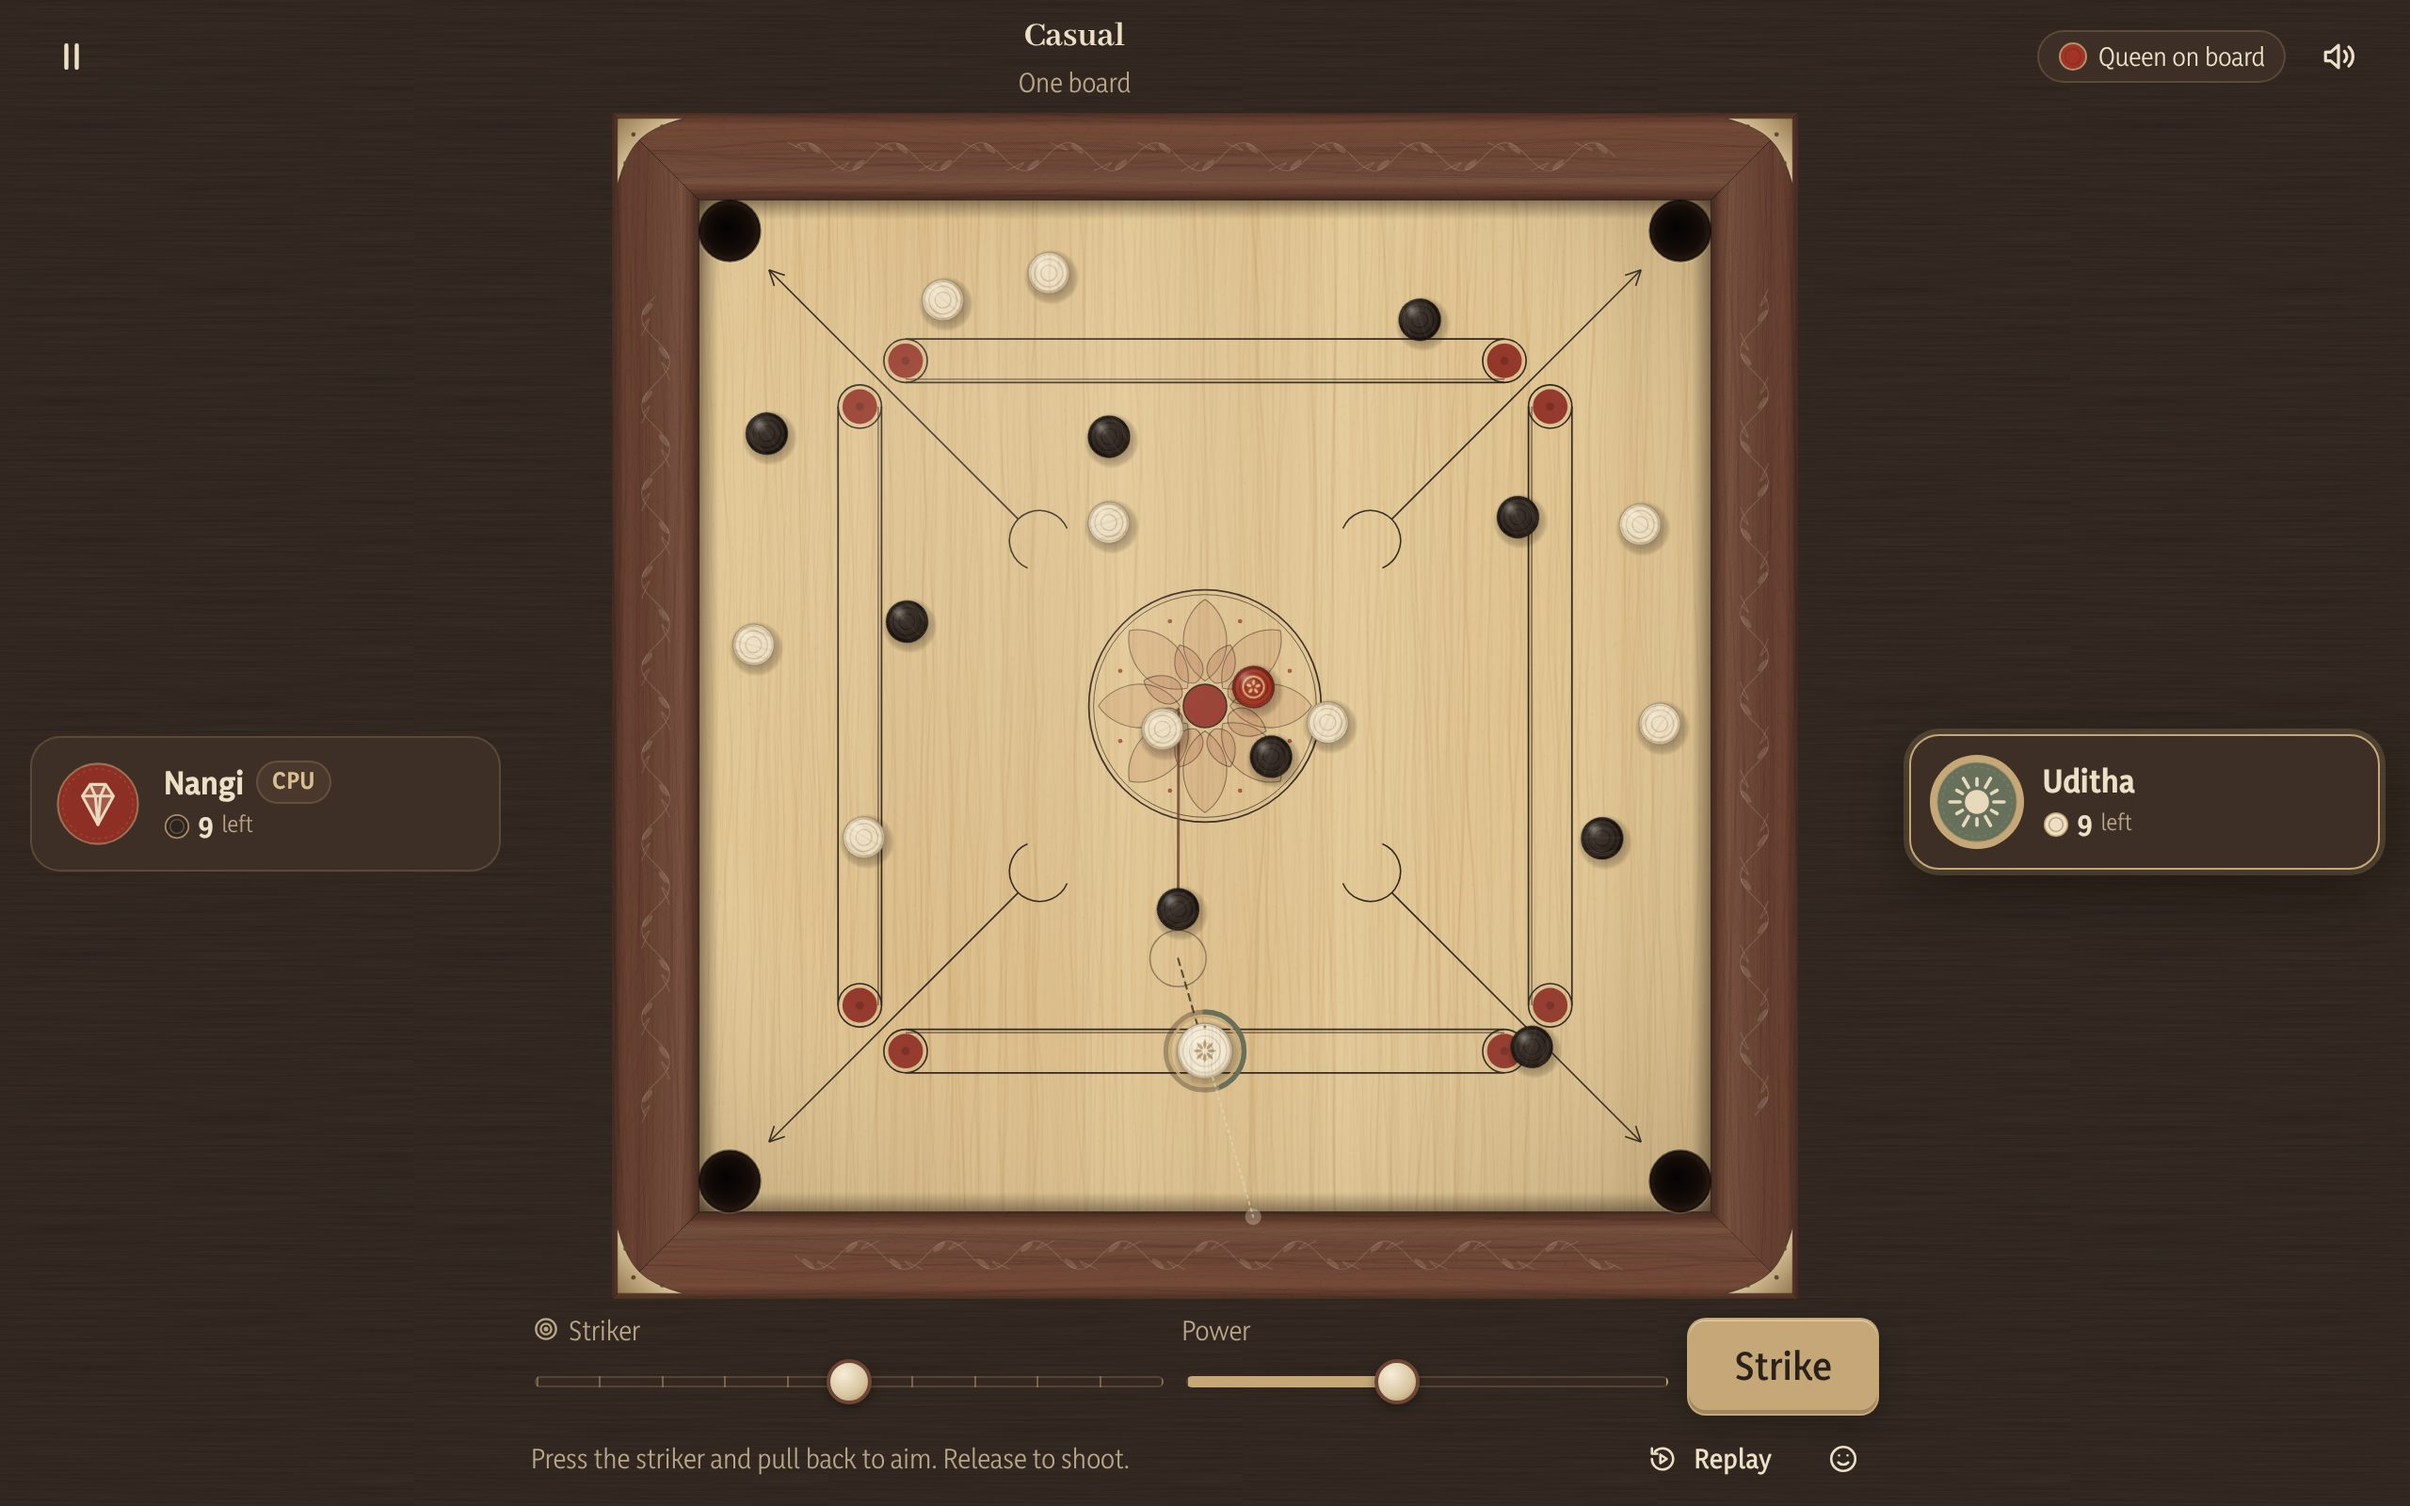
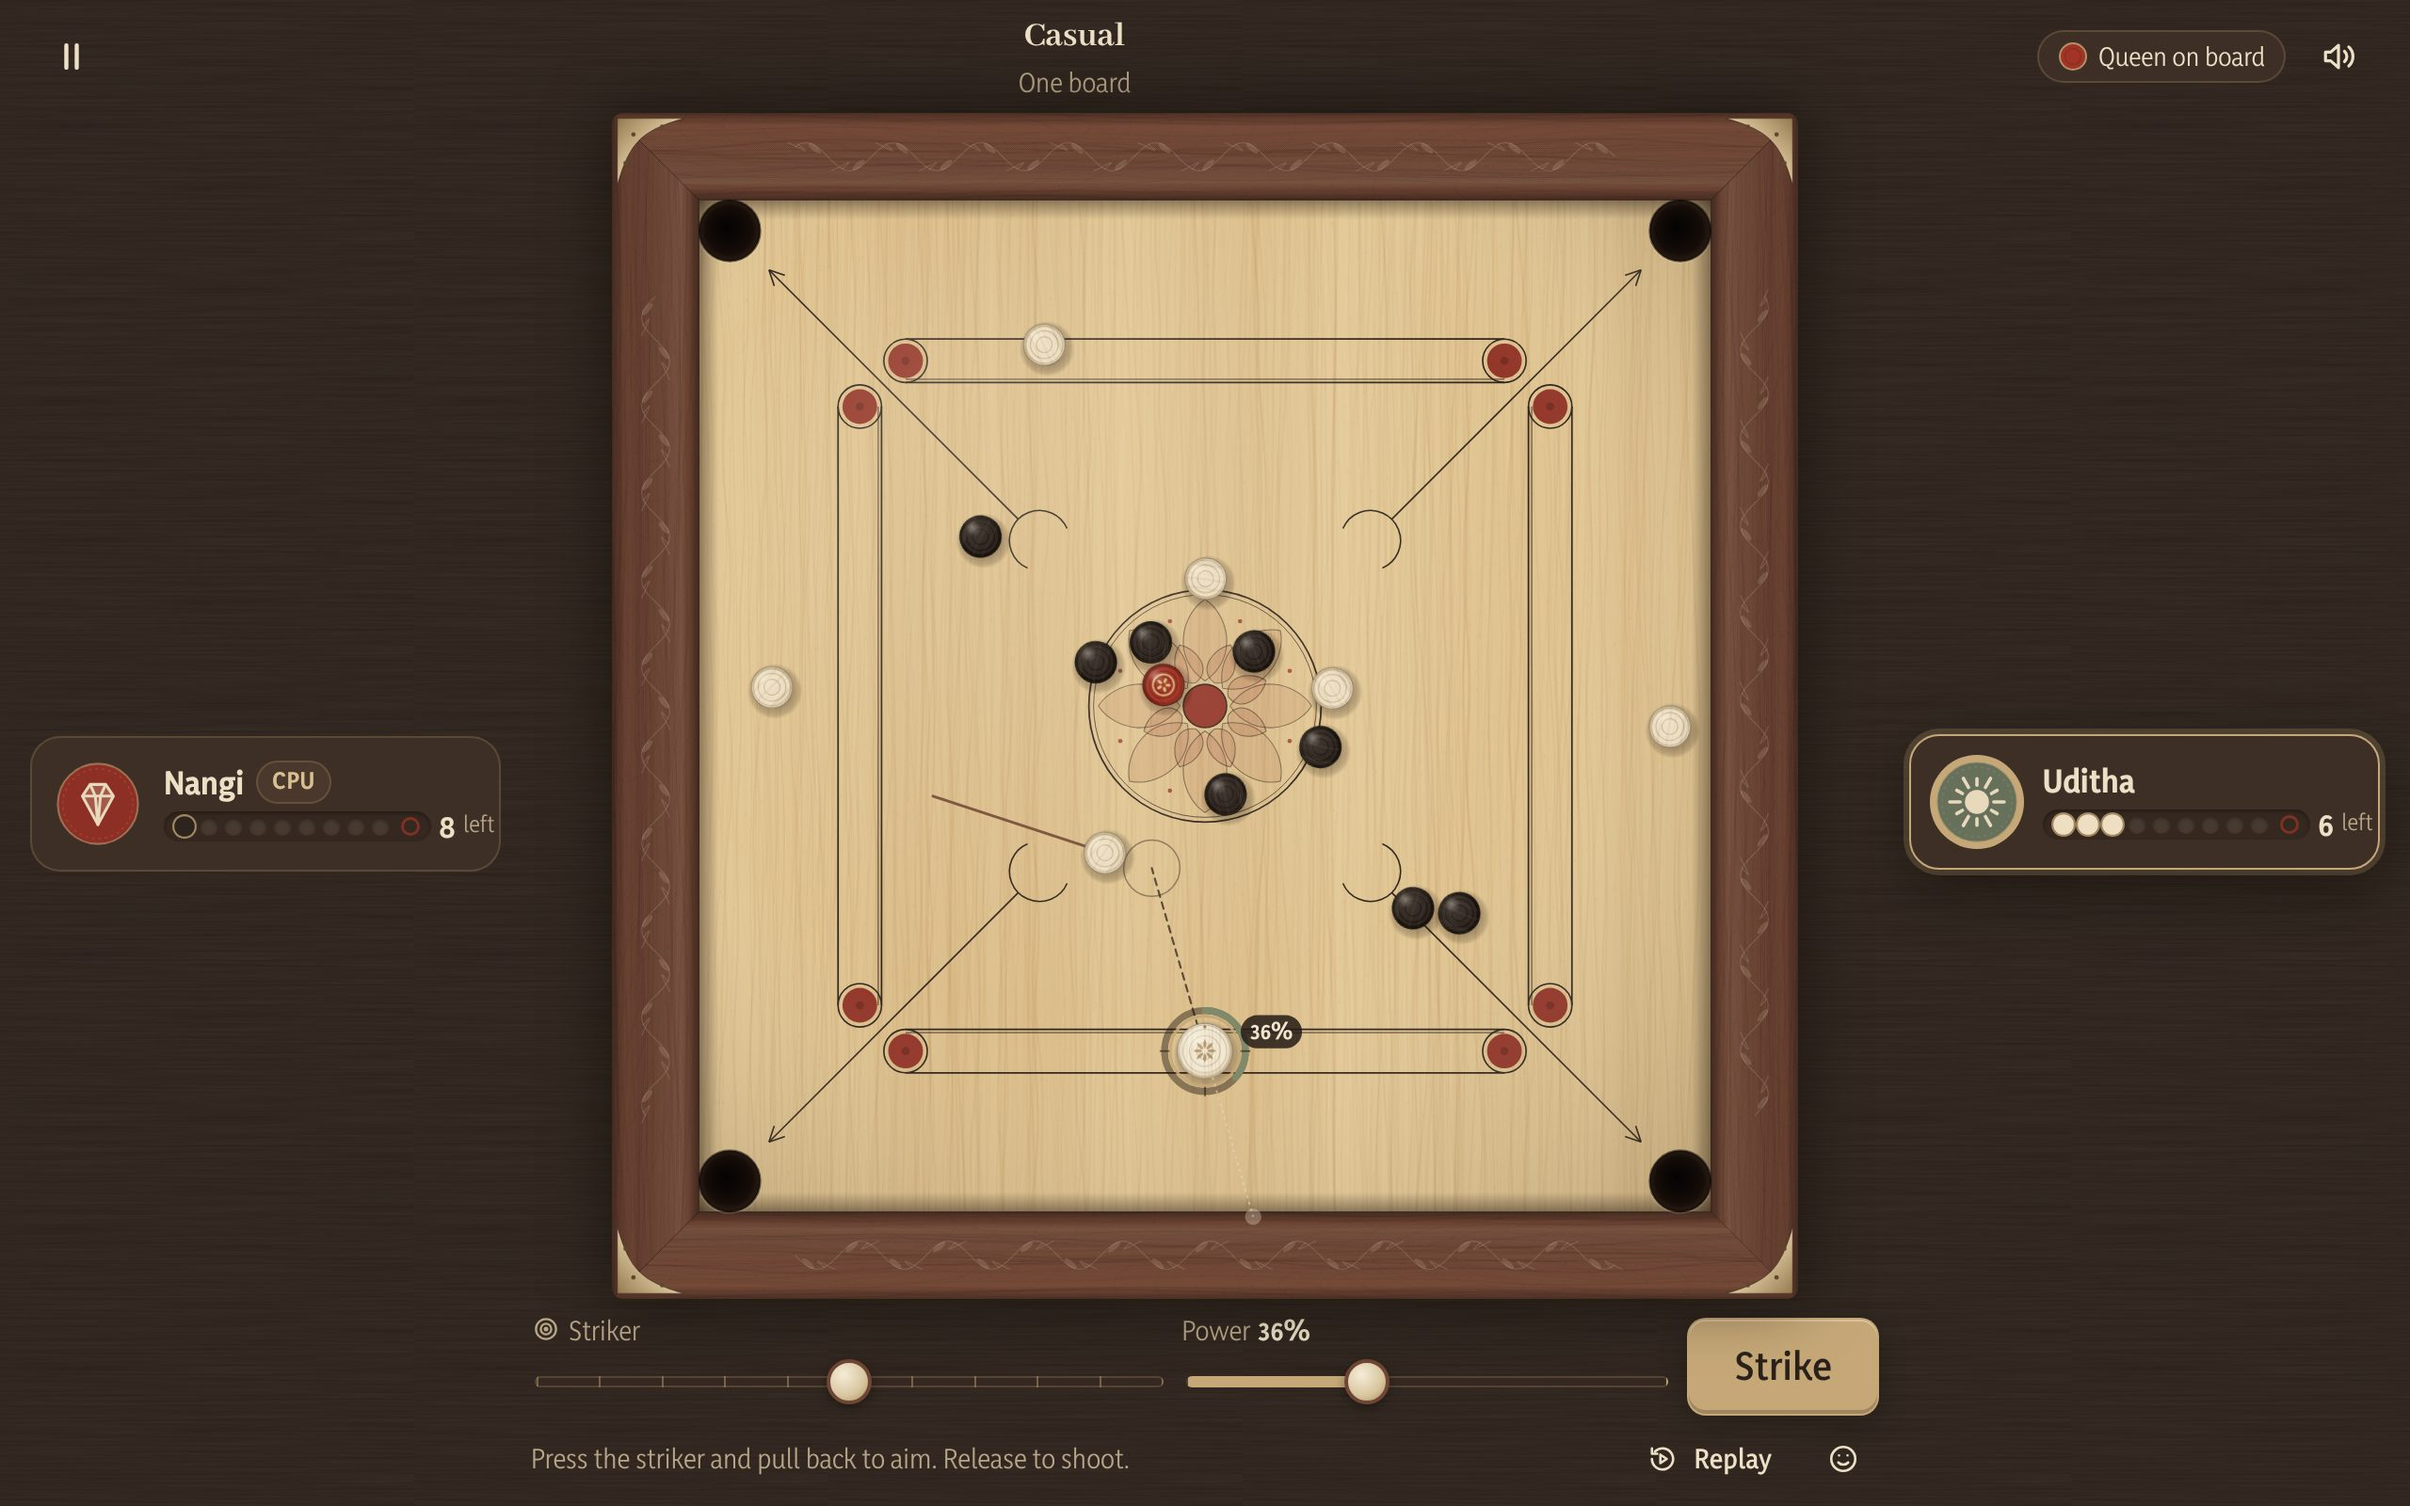
docs: show the live table, board menu and coin tray
New menu, mode board and game screenshots, README features and tips, and changelog entries.

Claude-Session: https://claude.ai/code/session_014oXCdwhAnYrtpeVRAuHgeU

diff --git a/README.md b/README.md
@@ -42,6 +42,7 @@ Flick the striker, pocket your coins, cover the queen: against the computer, wit
 | **Fair online play** | The server checks and simulates every shot, so results can't be faked. Dropped players reconnect without losing the game. Elo ratings and leaderboards: global, Sri Lanka, weekly, monthly and friends. |
 | **Learn and practise** | A five-step tutorial on a real board, practice drills with a coach that suggests a shot, instant replay, and a daily challenge that's the same for everyone. |
 | **Three languages** | English, Sinhala (සිංහල) and Tamil (தமிழ்) throughout, with fonts chosen for each script and local number and date formats. Quick-chat phrases appear in each reader's own language. |
+| **A menu that plays** | The main menu shows a live game: two computer players, Seeya and Achchi, play a real match in front of you, seen from a seat at the table. The mode menu is a carrom board itself, with the four modes in its four quarters and the queen in the centre starting a quick game. |
 | **Sri Lankan look** | Wood-grain boards, a lotus (pala peththa) centre, carved vine (liyawela) on the frame and brass corner plates. Board collection: Gedara Jak, Kandy Ebony, Galle Teak, Kitul Night. Strikers: ivory, brass, lacquer and moonstone. |
 | **Everywhere** | Phone, tablet and desktop, portrait and landscape. Touch, mouse and keyboard. Light and dark themes, reduced motion, battery saver and low-data mode. The computer, pass-and-play and practice modes work offline. |
 
@@ -49,14 +50,16 @@ Flick the striker, pocket your coins, cover the queen: against the computer, wit
 
 <table>
   <tr>
-    <td width="50%"><img src="docs/screenshots/menu.jpg" alt="Main menu with the Ceyrom wordmark, Play and Quick game buttons, and tiles for each mode"><br><sub>Main menu</sub></td>
-    <td width="50%"><img src="docs/screenshots/practice.jpg" alt="Practice drill with the queen at the centre and the coach's suggested line drawn from the striker"><br><sub>Practice with the coach's suggested line</sub></td>
+    <td width="50%"><img src="docs/screenshots/menu.jpg" alt="Main menu with the Ceyrom wordmark, Play and Quick game buttons, and a carrom board in perspective where two computer players are mid-game"><br><sub>Main menu with a live game on the table</sub></td>
+    <td width="50%"><img src="docs/screenshots/mode-board.jpg" alt="Mode menu drawn as a carrom board: four modes in the four quarters, pockets in the corners and a red queen button in the centre"><br><sub>The mode menu is a board; the queen starts a quick game</sub></td>
   </tr>
   <tr>
+    <td><img src="docs/screenshots/practice.jpg" alt="Practice drill with the queen at the centre and the coach's suggested line drawn from the striker"><br><sub>Practice with the coach's suggested line</sub></td>
     <td><img src="docs/screenshots/online-room.jpg" alt="Online room showing code JRWG, two seated players and room chat"><br><sub>Private online room with invite code and quick chat</sub></td>
-    <td><img src="docs/screenshots/local-tamil.jpg" alt="Four-player pass-and-play in Tamil on a landscape phone, with a shot clock ring on the active player"><br><sub>Four players on one phone, in Tamil</sub></td>
   </tr>
 </table>
+
+<p align="center"><img src="docs/screenshots/local-tamil.jpg" alt="Four-player pass-and-play in Tamil on a landscape phone, with a shot clock ring on the active player" width="640"><br><sub>Four players on one phone, in Tamil</sub></p>
 
 <p align="center"><img src="docs/screenshots/phone-sinhala.jpg" alt="Phone game screen in Sinhala" width="300"><br><sub>Phone layout in Sinhala</sub></p>
 
@@ -112,6 +115,7 @@ The tutorial in the app (**How to play** on the main menu) walks through this on
 
 **Tips**
 - The striker slides around any coin sitting on your baseline, so wherever it rests is a legal spot.
+- Each player card has a coin tray: nine slots that fill as that side's coins go down, and a queen slot that glows while the queen needs covering.
 - The power ring around the striker fills olive, then brass, then red. Ticks mark 25, 50 and 75%, and the exact percentage shows beside the striker. You hear a soft click (and feel a light buzz on phones) at every 10%.
 
 In Settings you can switch between **Pull back** and **Point and strike** aiming, and set the aim guide to Full, Short or Off. Point and strike remembers your last power.
@@ -130,6 +134,7 @@ ceyrom/
 │   │   ├── controller.ts  game loop, input, AI turns, online sync
 │   │   ├── renderer.ts    canvas drawing and effects
 │   │   ├── textures.ts    procedural board and coins
+│   │   ├── demo.ts        the self-playing table on the main menu
 │   │   └── audio.ts       synthesised sound and music
 │   ├── net/           # reconnecting WebSocket client
 │   ├── store/         # Zustand stores (settings, profile, HUD)
@@ -173,6 +178,7 @@ One Node process serves the game, the API and the WebSocket on the same port.
 | `CEYROM_SECRET` | generated | Key that signs player tokens; kept in `CEYROM_DATA/secret.key` if unset |
 | `CEYROM_DATA` | `./data` | Where player and match data is saved |
 | `CEYROM_ORIGINS` | any | Allowed browser origins (comma-separated) when the client is hosted elsewhere |
+| `CEYROM_GRACE_MS` | `60000` | How long a disconnected player may take to return before forfeiting |
 | `VITE_SERVER_URL` | same origin | Set at build time when the client and server are on different domains |
 
 Health check: `GET /api/health`. Leaderboard: `GET /api/leaderboard?scope=global|lk|weekly|monthly|friends`.

diff --git a/CHANGELOG.md b/CHANGELOG.md
@@ -4,6 +4,14 @@ All notable changes to Ceyrom are listed here. The format follows [Keep a Change
 
 ## [Unreleased]
 
+### Added
+
+- **Live table on the main menu:** two computer players play a real match in front of you, shown in perspective. Click the board to start a quick game.
+- **Board-shaped mode menu:** the four modes sit in the four quarters of a carrom board, and the queen in the centre starts a quick game.
+- **Coin tray:** each player card shows nine slots that fill as coins are pocketed, plus a queen slot.
+- **Table talk:** shot notes use "Aiyo!", "Shaa!" and "Niyamai!" (with Sinhala and Tamil equivalents), and computer players sometimes react with an emoji.
+- `CEYROM_GRACE_MS` server setting for the reconnect grace period.
+
 ### Changed
 
 - **Smoother striker:** the striker, aim and power ease toward your input instead of jumping, including the opponent's aim when you play online. Dragging keeps your grab point, and the striker slides around coins on the baseline.
